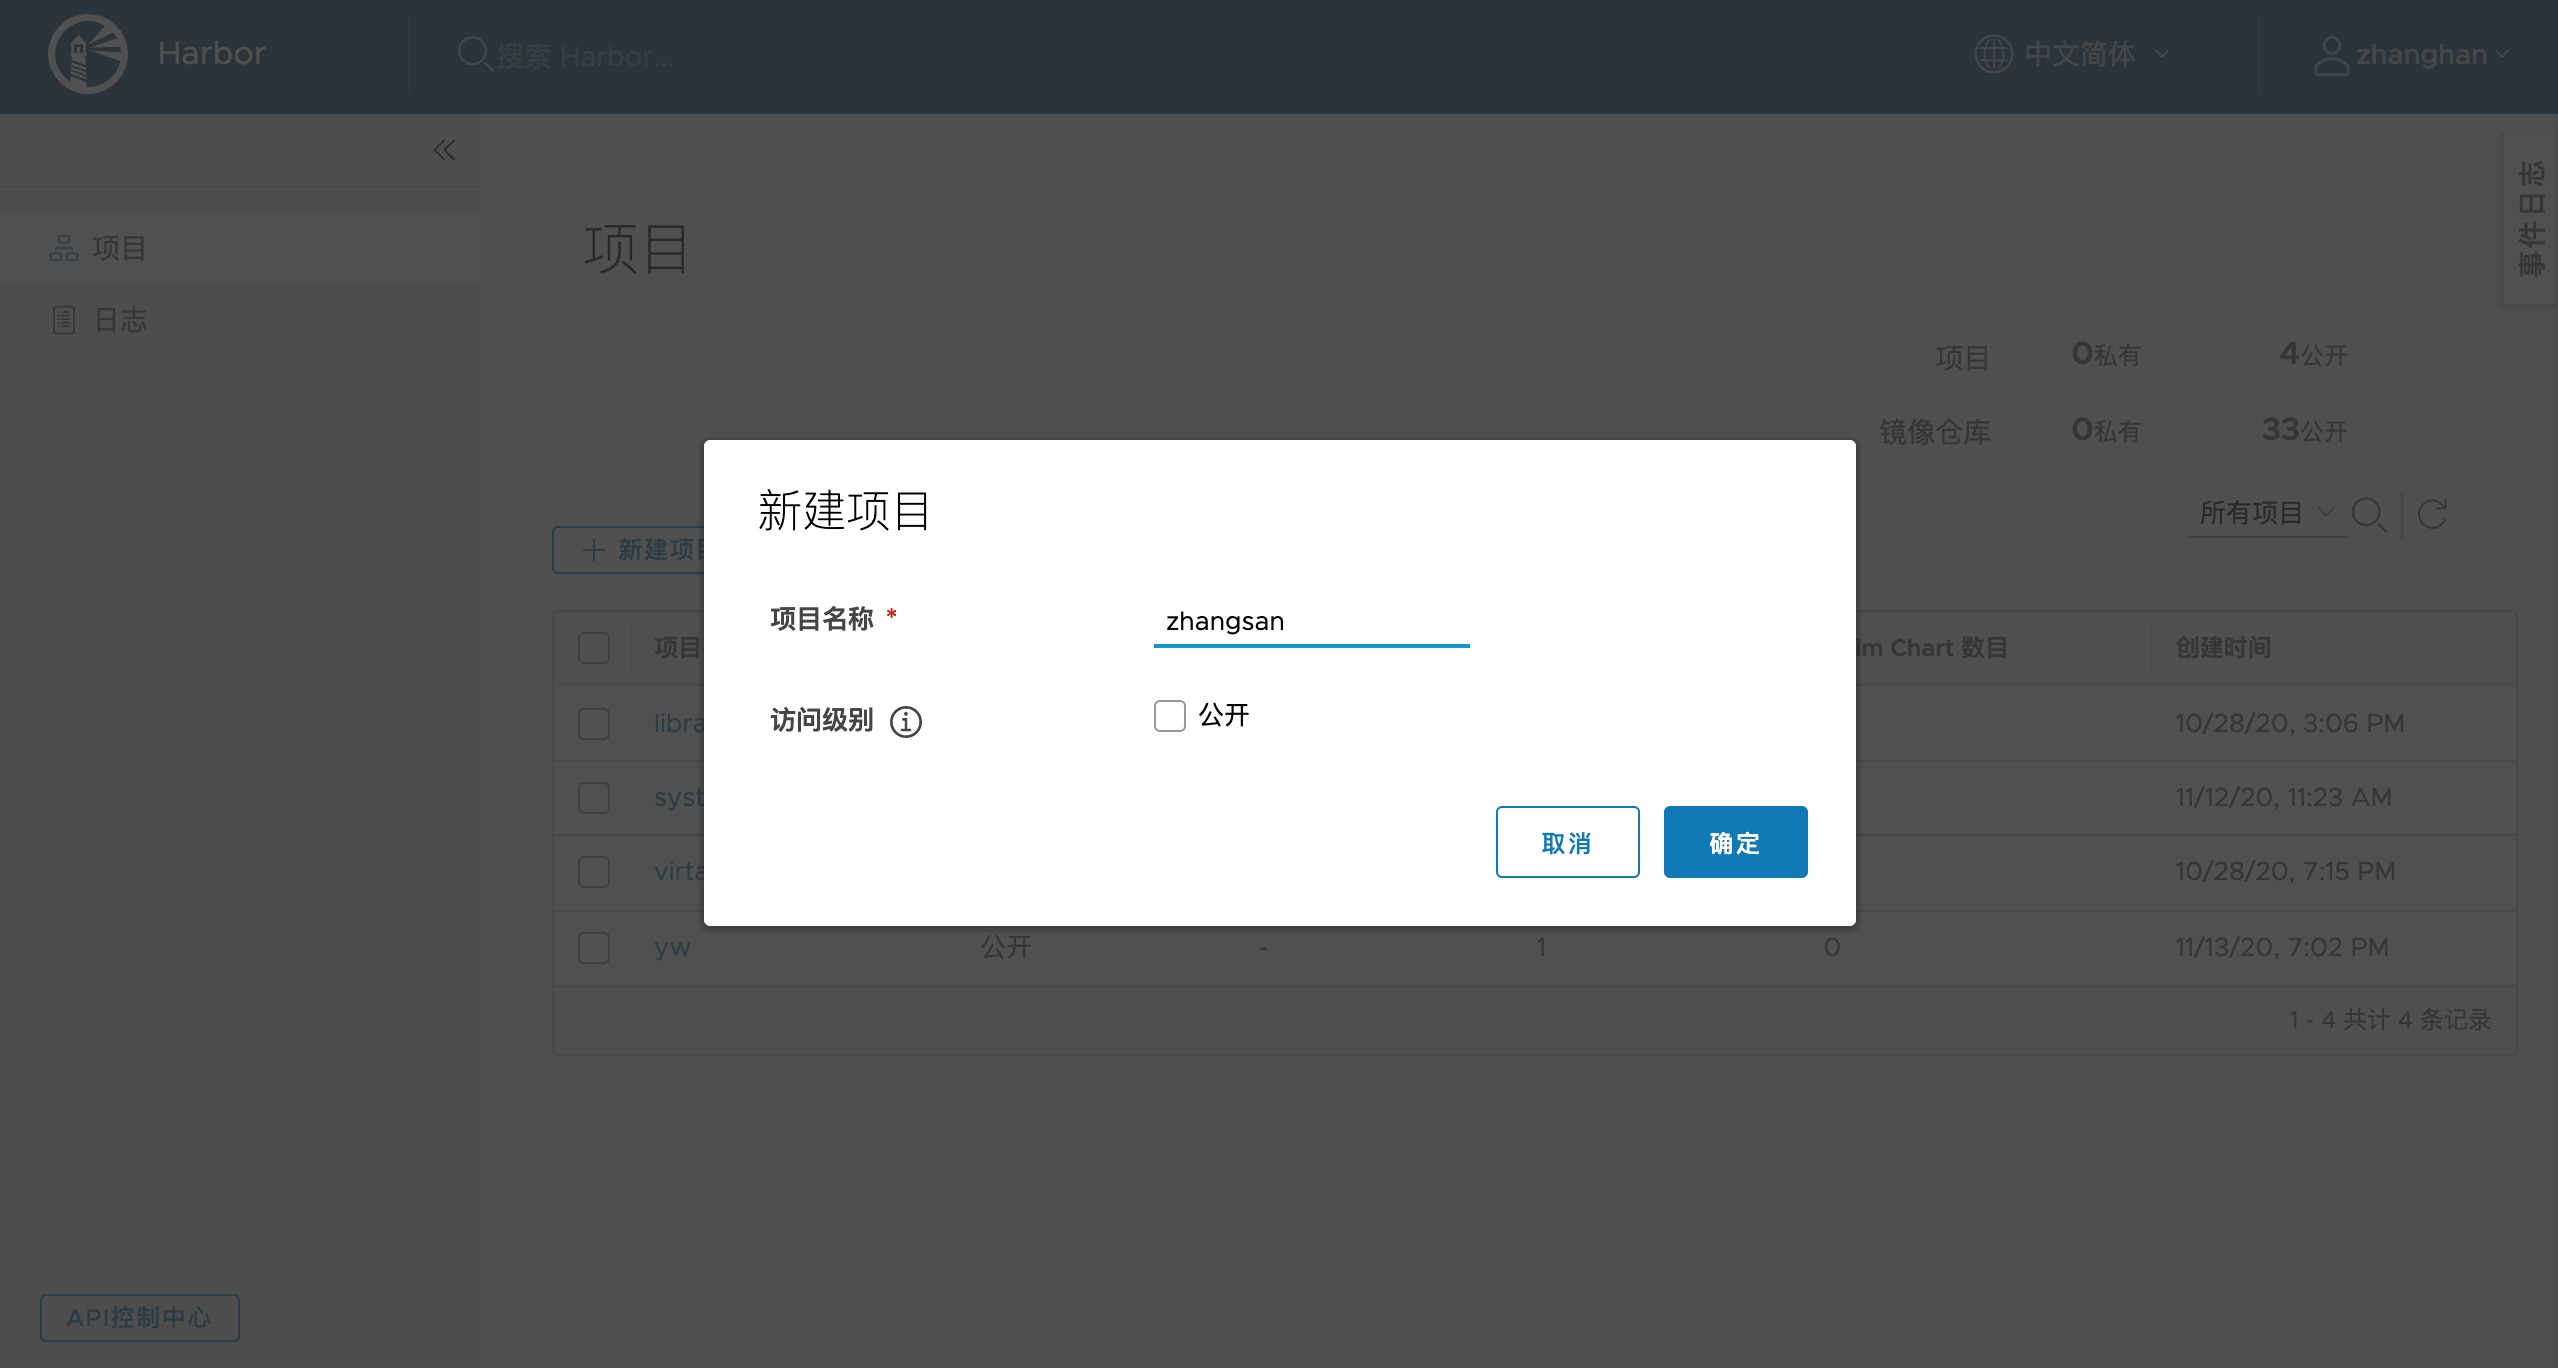
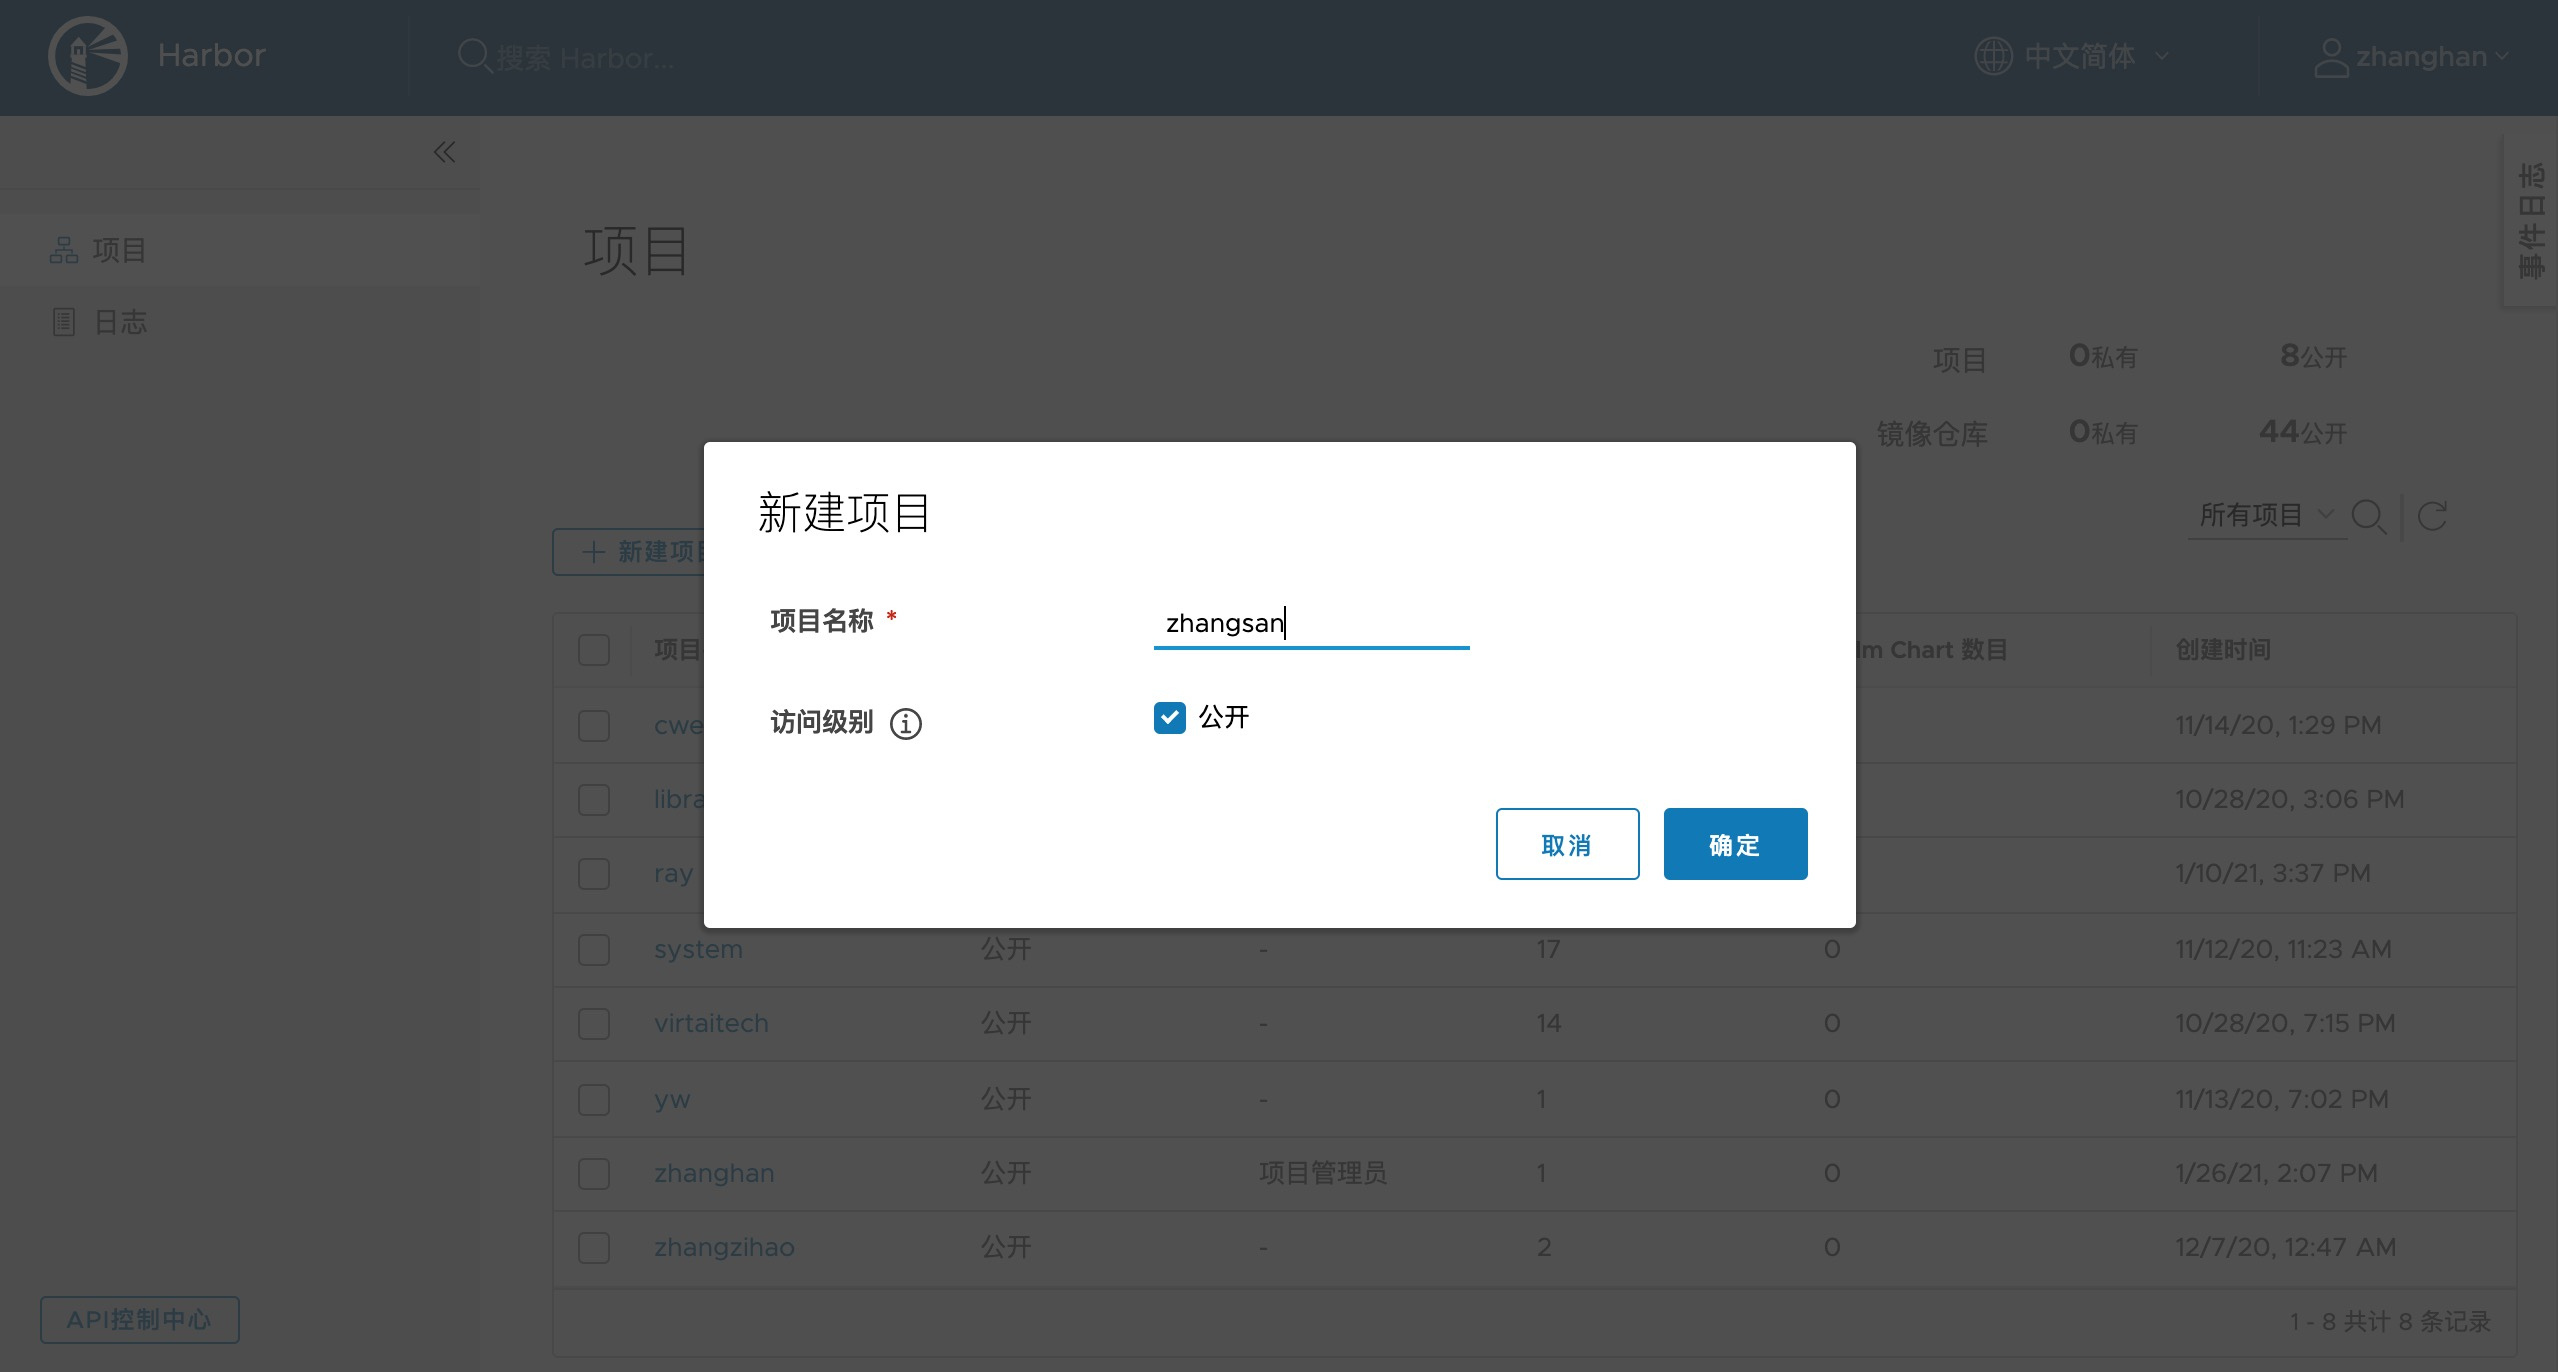
minor

Changed region(s): [[0.4324, 0.4912, 0.4633, 0.5526], [0.3088, 0.3684, 0.3397, 0.3991], [0.0309, 0.9518, 0.0618, 0.9825]]

diff --git a/image_build.md b/image_build.md
@@ -112,6 +112,8 @@ sample          v0         707ab1c88146        30 seconds ago       11.3GB
 
 ![](assets/images/harbor_create_project.jpg)
 
+> **_NOTE:_** 注意这里需要勾选公开，原因是私有集群物理机的 docker 并没有登录用户个人的 Harbor 账户，因此无法拉取私有仓库中的镜像。
+
 假设我们的项目名为 zhangsan，则我们之后的镜像均要 push 到`harbor.iiis.co/zhangsan/`下，首先 tag 我们做好的镜像：
 
 ```bash
